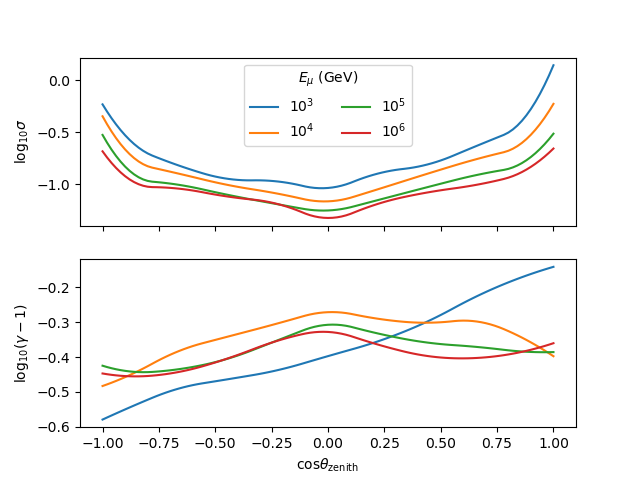
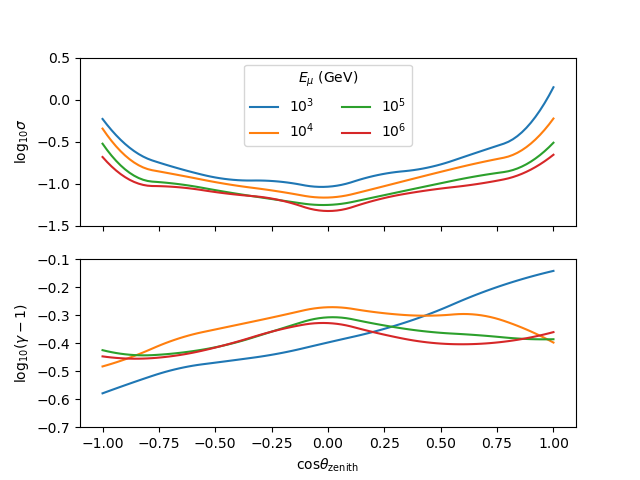
make the axes more standard for nicer plots

diff --git a/analysis/2021.01_extract_PSF/extract_PSF.py b/analysis/2021.01_extract_PSF/extract_PSF.py
@@ -266,8 +266,10 @@ if args.do_plots:
 			axes.flat[i].plot(x, grideval(basis, spl['coefficients']).T, label='$10^{{{:.0f}}}$'.format(loge))
 	axes.flat[1].set_xlabel(r'$\cos\theta_{\rm zenith}$')
 	axes.flat[1].set_ylabel(r'$\log_{10}(\gamma-1)$')
+	axes.flat[1].set_ylim([-0.7,-0.1])
 	axes.flat[0].set_ylabel(r'$\log_{10}\sigma$')
 	axes.flat[0].legend(title=r'$E_{\mu}$ (GeV)', ncol=2)
+	axes.flat[0].set_ylim([-1.5,0.5])
 	fig.savefig('fit_params_{}.png'.format(the_geom))
 	plt.close(fig)
 	del fig, axes
